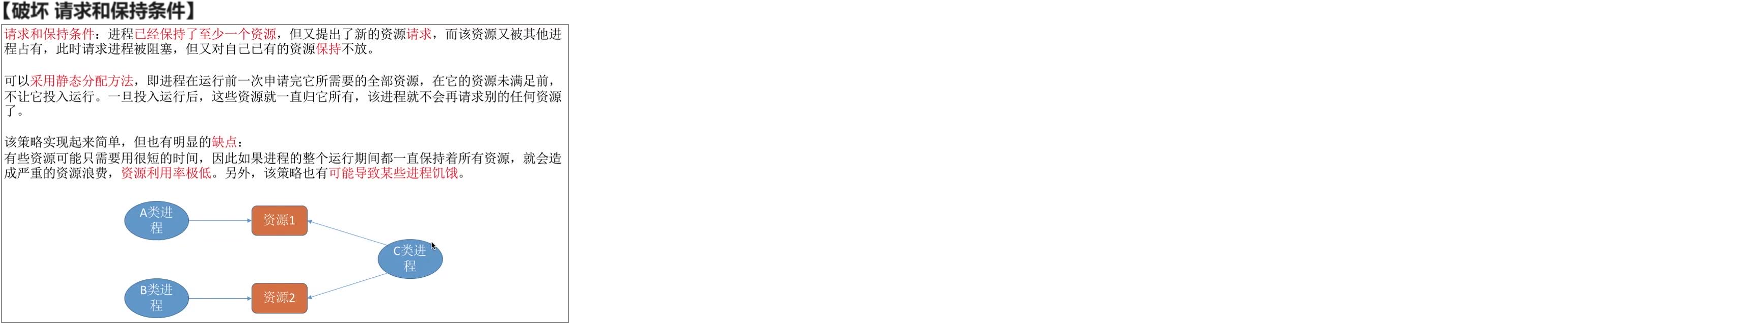
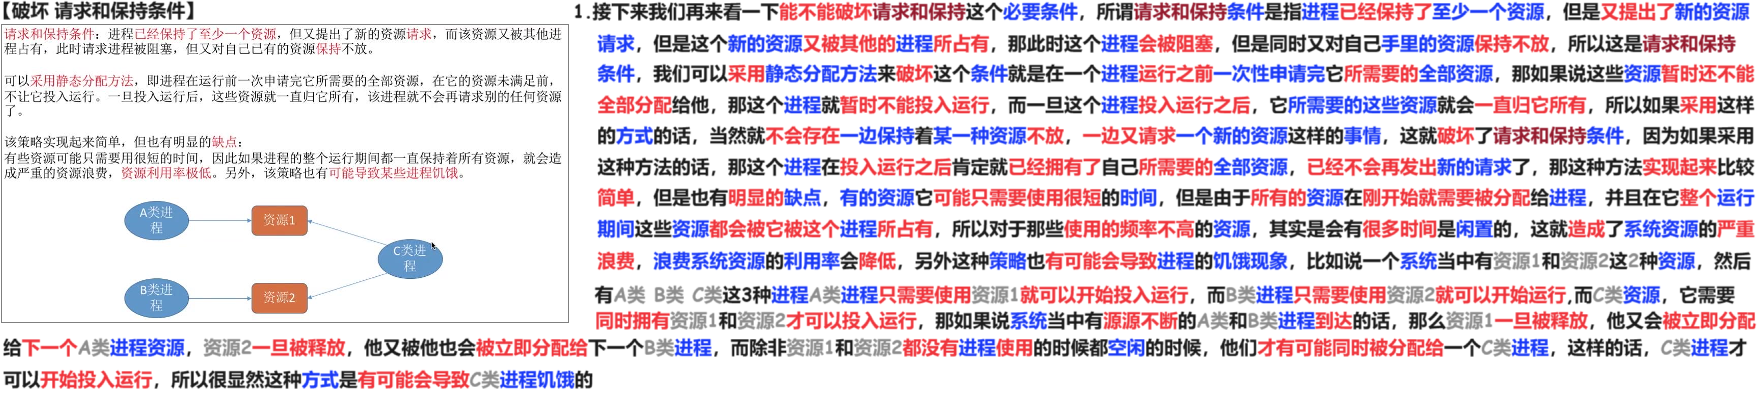
240509

diff --git a/01 初试/01 OS/02 24 25 王道/01 基础/02 进程 线程/04 死锁/02 死锁 处理策略 预防死锁 240509/02 Doc.md b/01 初试/01 OS/02 24 25 王道/01 基础/02 进程 线程/04 死锁/02 死锁 处理策略 预防死锁 240509/02 Doc.md
@@ -21,3 +21,9 @@
 
 
 # 04 破坏 请求和保持条件
+
+<img src="https://cvp.oss-cn-shanghai.aliyuncs.com/picgo/202405091458891.png" alt="image-20240509145814706" style="zoom:50%;" />
+
+
+
+# 05 破坏 循环等待条件
